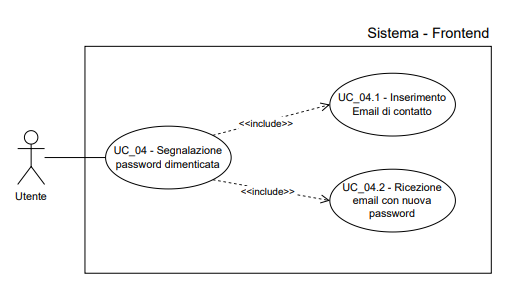
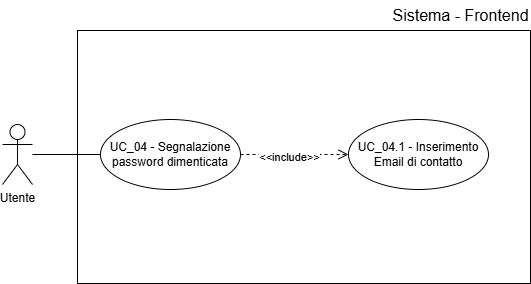
aggiunta sottocasi UC_11.2-UC_13.2 e correzione UC_04

diff --git a/src/RTB/Documenti Esterni/Analisi dei Requisiti/content/uc/UC_13.tex b/src/RTB/Documenti Esterni/Analisi dei Requisiti/content/uc/UC_13.tex
@@ -71,6 +71,14 @@
 \subsubsubsection{UC\_13.2: Selezionare file audio}
 \label{uc_13.2}
 
+L'UC\_13.2 ha 4 ulteriori generalizzazioni come mostrate in figura.
+\begin{figure}[H]
+        \centering
+        \includegraphics[width=0.8\textwidth]{AnalisiRequisiti/UC_13.2}
+        \caption{UC\_13.2: Selezionare file audio}
+\end{figure}
+
+
 \begin{itemize}
     \item \textbf{Attore principale}: Utente
     \item \textbf{Scenario principale}:
@@ -88,4 +96,88 @@
             \item L'audio viene inviato allo Speech-to-Text 
         \end{itemize}
     \item \textbf{User Story}: L'Utente vuole inserire un ordine mediante un file audio presente nel dispositivo
+\end{itemize}
+
+\subsubsubsubsection{UC\_13.2.1: Selezionare audio mp3}
+\label{uc_13.2.1}
+
+\begin{itemize}
+    \item \textbf{Attore Principale:} Untente
+    \item \textbf{Scenario principale}:
+        \begin{enumerate}
+            \item L'Utente ha premuto il pulsante per selezionare un file dal dispositivo
+            \item L'Utente seleziona un file con estensione .mp3
+        \end{enumerate}
+    \item \textbf{Precondizioni}:
+        \begin{itemize}
+            \item Il sistema verifica la compatibilità del formato e predispone il file per l'invio
+            \item L'Utente si trova nella sezione di inserimento ordine tramite file
+        \end{itemize}
+    \item \textbf{Postcondizioni}: 
+        \begin{itemize}
+            \item Il file .mp3 è stato correttamente selezionato e caricato nel sistema  
+        \end{itemize}
+\end{itemize}
+
+\subsubsubsubsection{UC\_13.2.2: Selezionare audio m4a}
+\label{uc_13.2.2}
+
+\begin{itemize}
+    \item \textbf{Attore Principale:} Untente
+    \item \textbf{Scenario principale}:
+        \begin{enumerate}
+            \item L'Utente ha premuto il pulsante per selezionare un file dal dispositivo
+            \item L'Utente seleziona un file con estensione .m4a
+        \end{enumerate}
+    \item \textbf{Precondizioni}:
+        \begin{itemize}
+            \item Il sistema verifica la compatibilità del formato e predispone il file per l'invio
+            \item L'Utente si trova nella sezione di inserimento ordine tramite file 
+        \end{itemize}
+    \item \textbf{Postcondizioni}: 
+        \begin{itemize}
+            \item Il file .m4a è stato correttamente selezionato e caricato nel sistema  
+        \end{itemize}
+\end{itemize}
+
+\subsubsubsubsection{UC\_13.2.3: Selezionare audio m4p}
+\label{uc_13.2.3}
+
+\begin{itemize}
+    \item \textbf{Attore Principale:} Untente
+    \item \textbf{Scenario principale}:
+        \begin{enumerate}
+            \item L'Utente ha premuto il pulsante per selezionare un file dal dispositivo
+            \item L'Utente seleziona un file con estensione .m4p
+        \end{enumerate}
+    \item \textbf{Precondizioni}:
+        \begin{itemize}
+            \item L'Utente si trova nella sezione di inserimento ordine tramite file
+        \end{itemize}
+    \item \textbf{Postcondizioni}: 
+        \begin{itemize}
+            \item Il sistema verifica la compatibilità del formato e predispone il file per l'invio
+            \item Il file .m4p è stato correttamente selezionato e caricato nel sistema
+        \end{itemize}
+\end{itemize}
+
+\subsubsubsubsection{UC\_13.2.4: Selezionare audio wav}
+\label{uc_13.2.4}
+
+\begin{itemize}
+    \item \textbf{Attore Principale:} Untente
+    \item \textbf{Scenario principale}:
+        \begin{enumerate}
+            \item L'Utente ha premuto il pulsante per selezionare un file dal dispositivo
+            \item L'Utente seleziona un file con estensione .wav
+        \end{enumerate}
+    \item \textbf{Precondizioni}:
+        \begin{itemize}
+            \item Il sistema verifica la compatibilità del formato e predispone il file per l'invio
+            \item L'Utente si trova nella sezione di inserimento ordine tramite file
+        \end{itemize}
+    \item \textbf{Postcondizioni}: 
+        \begin{itemize}
+            \item Il file .wav è stato correttamente selezionato e caricato nel sistema  
+        \end{itemize}
 \end{itemize}

diff --git a/src/RTB/Documenti Esterni/Analisi dei Requisiti/content/uc/UC_11.tex b/src/RTB/Documenti Esterni/Analisi dei Requisiti/content/uc/UC_11.tex
@@ -68,6 +68,13 @@
 \subsubsubsection{UC\_11.2: Selezionare immagine da dispositivo}
 \label{uc_11.2}
 
+L'UC\_11.2 ha 3 ulteriori generalizzazioni.
+\begin{figure}[H]
+        \centering
+        \includegraphics[width=0.8\textwidth]{AnalisiRequisiti/UC_11.2}
+        \caption{UC\_11: Selezionare immagine da dispositivo}
+\end{figure}
+
 \begin{itemize}
     \item \textbf{Attore principale}: Utente
     \item \textbf{Scenario principale}:
@@ -85,4 +92,67 @@
             \item Il sistema invia l'immagine appena scattata all'OCR   
         \end{itemize}
     \item \textbf{User Story}: L'Utente vuole inserire un ordine mediante un'immagine presente nel dispositivo
+\end{itemize}
+
+\subsubsubsubsection{UC\_11.2.1: Selezionare immagine jpg}
+\label{uc_11.2.1}
+
+\begin{itemize}
+    \item \textbf{Attore Principale:} Untente
+    \item \textbf{Scenario principale}:
+        \begin{enumerate}
+            \item L'Utente ha premuto il pulsante per selezionare un file dal dispositivo
+            \item L'Utente seleziona un file con estensione .jpg
+        \end{enumerate}
+    \item \textbf{Precondizioni}:
+        \begin{itemize}
+            \item Il sistema verifica la compatibilità del formato e predispone il file per l'invio
+            \item L'Utente si trova nella sezione di inserimento ordine tramite file
+        \end{itemize}
+    \item \textbf{Postcondizioni}: 
+        \begin{itemize}
+            \item Il file .jpg è stato correttamente selezionato e caricato nel sistema  
+        \end{itemize}
+\end{itemize}
+
+\subsubsubsubsection{UC\_11.2.2: Selezionare immagine jpeg}
+\label{uc_11.2.2}
+
+\begin{itemize}
+    \item \textbf{Attore Principale:} Untente
+    \item \textbf{Scenario principale}:
+        \begin{enumerate}
+            \item L'Utente ha premuto il pulsante per selezionare un file dal dispositivo
+            \item L'Utente seleziona un file con estensione .jpeg
+        \end{enumerate}
+    \item \textbf{Precondizioni}:
+        \begin{itemize}
+            \item Il sistema verifica la compatibilità del formato e predispone il file per l'invio
+            \item L'Utente si trova nella sezione di inserimento ordine tramite file
+        \end{itemize}
+    \item \textbf{Postcondizioni}: 
+        \begin{itemize}
+            \item Il file .jpeg è stato correttamente selezionato e caricato nel sistema  
+        \end{itemize}
+\end{itemize}
+
+\subsubsubsubsection{UC\_11.2.3: Selezionare immagine png}
+\label{uc_11.2.3}
+
+\begin{itemize}
+    \item \textbf{Attore Principale:} Untente
+    \item \textbf{Scenario principale}:
+        \begin{enumerate}
+            \item L'Utente ha premuto il pulsante per selezionare un file dal dispositivo
+            \item L'Utente seleziona un file con estensione .png
+        \end{enumerate}
+    \item \textbf{Precondizioni}:
+        \begin{itemize}
+            \item Il sistema verifica la compatibilità del formato e predispone il file per l'invio
+            \item L'Utente si trova nella sezione di inserimento ordine tramite file
+        \end{itemize}
+    \item \textbf{Postcondizioni}: 
+        \begin{itemize}
+            \item Il file .png è stato correttamente selezionato e caricato nel sistema  
+        \end{itemize}
 \end{itemize}

diff --git a/src/RTB/Documenti Esterni/Analisi dei Requisiti/content/uc/UC_04.tex b/src/RTB/Documenti Esterni/Analisi dei Requisiti/content/uc/UC_04.tex
@@ -13,7 +13,6 @@
     \begin{enumerate}
         \item L'Utente seleziona l'opzione \vr{Password dimenticata} nel sistema
         \item L'Utente inserisce l'Email di registrazione per recuperare la password $\rightarrow$ Vedi \hyperref[uc_04.1]{UC\_04.1}
-        \item L'Utente rieceve una email con la nuova password $\rightarrow$ Vedi \hyperref[uc_04.2]{UC\_04.2}
     \end{enumerate}
     \item \textbf{Precondizioni}:
     \begin{itemize}
@@ -24,11 +23,13 @@
     \item \textbf{Postcondizioni}:
     \begin{itemize}
         \item L'Utente invia la richiesta di recupero password al sistema
+        \item Il sistema genera un token di recupero per il ripristino delle credenziali
+        \item Il sistema ha inviato una password temporanea all'indirizzo email inserito dall'utente
+        \item I dati di accesso dell'Utente sono aggiornati con la nuova password temporanea
     \end{itemize}
     \item \textbf{Inclusioni}:
     \begin{itemize}
         \item \hyperref[uc_04.1]{UC\_04.1}
-        \item \hyperref[uc_04.2]{UC\_04.2}
     \end{itemize}
     \item \textbf{User Story}: L'Utente vuole ripristinare la propria password
 \end{itemize}
@@ -63,10 +64,10 @@
     \item \textbf{User Story}: L'Utente vuole inserire l'Email per il recupero password
 \end{itemize}
 
-UC\_04.1 presenta ulteriori due estensioni, come mostrate in figura:
+UC\_04.1 presenta due ulteriori estensioni, come mostrato in figura:
 \begin{figure}[H]
     \centering 
-    \includegraphics[width=1\textwidth]{AnalisiRequisiti/UC_04.2.png}
+    \includegraphics[width=1\textwidth]{AnalisiRequisiti/UC_04.1}
     \caption{Estensioni UC\_04.1: UC\_04.1.1, UC\_04.1.2}
 \end{figure}
 
@@ -108,27 +109,4 @@ UC\_04.1 presenta ulteriori due estensioni, come mostrate in figura:
     \begin{itemize}
         \item L'Utente visualizza un messaggio d'errore per Email non presente nel sistema
     \end{itemize}
-\end{itemize}
-
-\subsubsubsection{UC\_04.2: Ricezione email con nuova password}
-\label{uc_04.2}
-
-\begin{itemize}
-    \item \textbf{Attore Principale}: Utente
-    \item \textbf{Scenario Principale}:
-    \begin{enumerate}
-        \item L'Utente riceve una email nel cui contenuto è presente la nuova password generata automaticamente dal sistema
-        \item L'Utente visiona la password
-    \end{enumerate}
-    \item \textbf{Precondizioni}:
-    \begin{itemize}
-        \item Utente non autenticato
-        \item Procedura di recupero password avviata
-        \item L'Utente ha inserito una Email valida
-    \end{itemize}
-    \item \textbf{Postcondizioni}:
-    \begin{itemize}
-        \item L'Utente visiona la mail con la nuova password ricevuta
-    \end{itemize}
-    \item \textbf{User Story}: L'Utente vuole ripristinare la propria password
 \end{itemize}

diff --git a/src/RTB/Documenti Esterni/Analisi dei Requisiti/content/uc/UC_08.tex b/src/RTB/Documenti Esterni/Analisi dei Requisiti/content/uc/UC_08.tex
@@ -8,7 +8,7 @@
 \end{figure}
 
 \begin{itemize}
-    \item \textbf{Attore principale}: Utente
+    \item \textbf{Attore principale}: Cliente
     \item \textbf{Scenario principale}:
         \begin{enumerate}
             \item L'Utente entra nella sezione del profilo
@@ -47,7 +47,7 @@
 \end{figure}
 
 \begin{itemize}
-    \item \textbf{Attore principale}: Utente
+    \item \textbf{Attore principale}: Cliente
     \item \textbf{Scenario principale}:
         \begin{enumerate}
             \item L'Utente inserisce la vecchia password con cui si era registrato nel sistema
@@ -76,7 +76,7 @@
 \label{uc_08.1.1}
 
 \begin{itemize}
-    \item \textbf{Attore Principale}: Utente
+    \item \textbf{Attore Principale}: Cliente
     \item \textbf{Scenario Principale}:
     \begin{enumerate}
         \item L'Utente riceve un messaggio di errore
@@ -103,7 +103,7 @@
 \end{figure}
 
 \begin{itemize}
-    \item \textbf{Attore principale}: Utente
+    \item \textbf{Attore principale}: Cliente
     \item \textbf{Scenario principale}:
         \begin{enumerate}
             \item L'Utente inserisce la nuova password
@@ -132,7 +132,7 @@
 \label{uc_08.2.1}
 
 \begin{itemize}
-    \item \textbf{Attore Principale}: Utente
+    \item \textbf{Attore Principale}: Cliente
     \item \textbf{Scenario Principale}:
     \begin{enumerate}
         \item L'Utente vede il messaggio di errore per password non conforme ai vincoli
@@ -159,7 +159,7 @@
 \end{figure}
 
 \begin{itemize}
-    \item \textbf{Attore principale}: Utente
+    \item \textbf{Attore principale}: Cliente
     \item \textbf{Scenario principale}:
         \begin{enumerate}
             \item L'Utente inserisce la nuova password
@@ -188,7 +188,7 @@
 \label{uc_08.3.1}
 
 \begin{itemize}
-    \item \textbf{Attore Principale}: Utente
+    \item \textbf{Attore Principale}: Cliente
     \item \textbf{Scenario Principale}:
     \begin{enumerate}
         \item L'Utente vede il messaggio di errore quando la conferma della password non corrisponde alla password

diff --git a/src/RTB/Documenti Esterni/Analisi dei Requisiti/content/modifiche.tex b/src/RTB/Documenti Esterni/Analisi dei Requisiti/content/modifiche.tex
@@ -9,6 +9,8 @@
 		\rowcolor[gray]{0.9}
 		\textbf{Vers} & \textbf{Data} & \textbf{Autore} & \textbf{Verificatore} & \textbf{Descrizione} \\
 		\hline
+		0.13.0 & 09-01 & L. Pieripolli & L. Marcuzzo & Aggiunta sottocasi UC\_11.2 e UC\_11.3, correzione casi d'uso UC\_04 \\
+		\hline
 		0.12.0 & 08-01 & T. Ceron & L. Marcuzzo & Aggiunta sottocasi specifici UC\_41-UC\_43, rimossi casi d'uso ridondanti \\
 		\hline
 		0.11.0 & 02-01 & T. Ceron & L. Casagrande & Stesura casi d'uso UC\_41 - UC\_45 \\

diff --git a/src/RTB/Documenti Esterni/Analisi dei Requisiti/content/table.tex b/src/RTB/Documenti Esterni/Analisi dei Requisiti/content/table.tex
@@ -1,8 +1,8 @@
 \begin{center}
 \begin{tabular}{r|l}
     Stato & In Approvazione \\[0.5em]
-    Versione & 0.11.0 \\[0.5em]
-    Data ultima modifica & 02/01/2026 \\[0.5em]
+    Versione & 0.13.0 \\[0.5em]
+    Data ultima modifica & 09/01/2026 \\[0.5em]
     Redattori & Lisa Casagrande \\
 	          & Luca Marcuzzo \\
 	          & Matteo Mazzaretto \\
